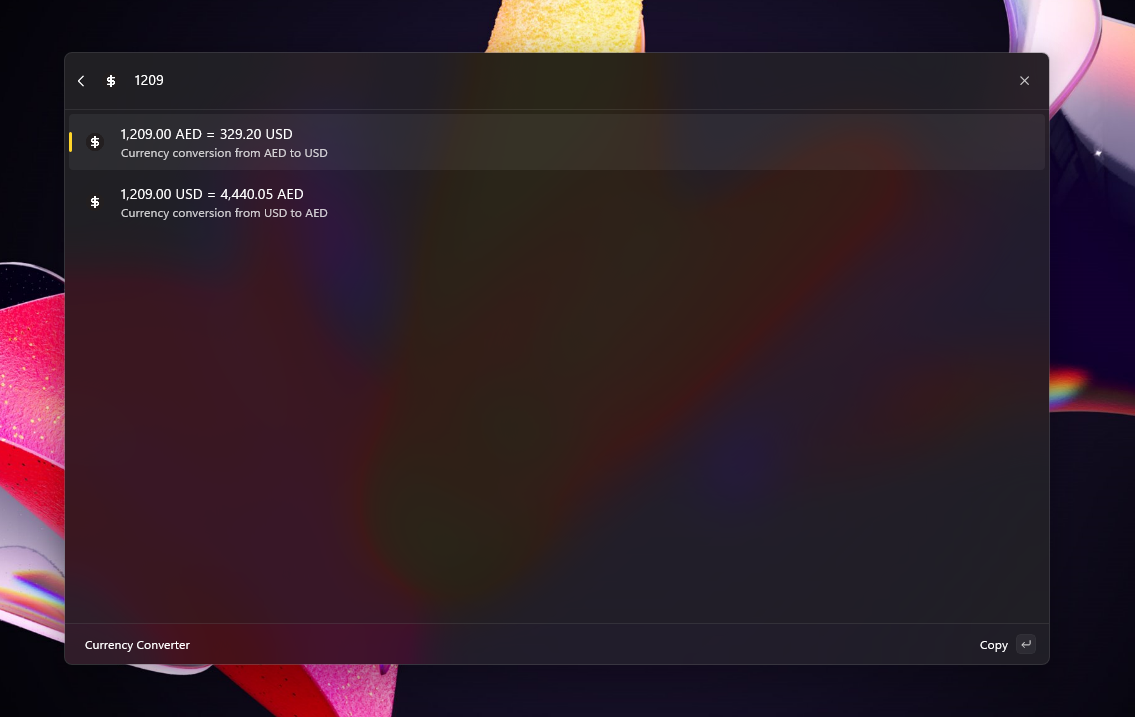
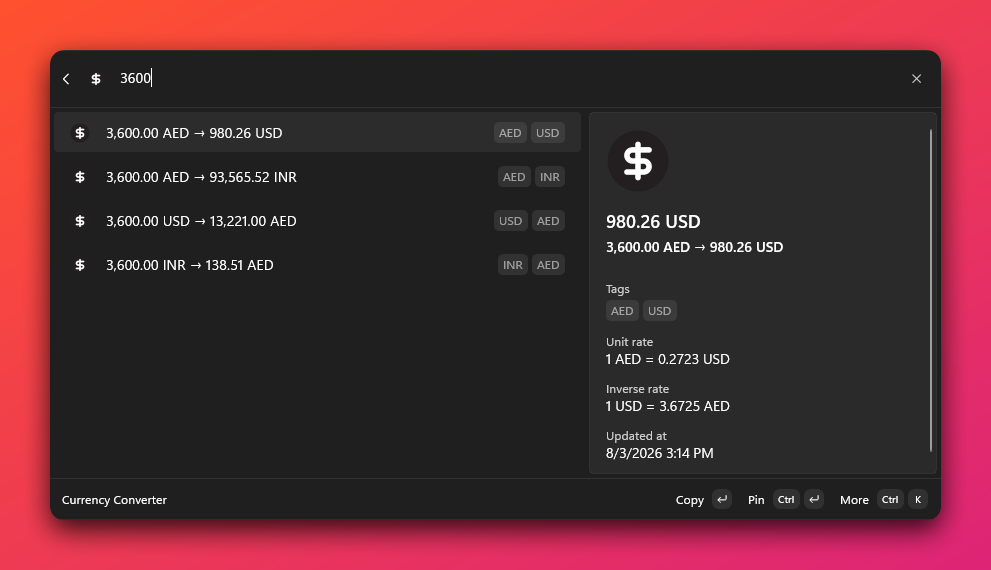
docs: Updated screenshots

diff --git a/README.md b/README.md
@@ -9,11 +9,7 @@ Convert fiat and crypto currencies without leaving [Command Palette](https://lea
 
 ![Home](screenshots/home.png)
 
-*Capture: main page with an empty search box — Today's rates, Manage aliases, and example query chips visible.*
-
 ![Settings](screenshots/settings.png)
-
-*Capture: full settings page (local currency, quick currencies, decimal separator, cache duration, API). Hide or clear any API key before shooting.*
 
 ## Why you'll love it
 
@@ -49,14 +45,12 @@ Download the MSIX package from the [Releases](https://github.com/advaith3600/Com
 
 ## Quick start
 
-1. Open Command Palette and run **Currency Converter** (or type a conversion query on the home list — see [Fallback](#fallback-from-home)).
+1. Open Command Palette and run **Currency Converter** (or type a conversion query on the home list).
 2. Type a query, for example `100 usd to eur`.
 3. Press **Enter** on a result to copy the converted amount to the clipboard.
 4. Open the details pane on a selected result to see the unit rate, inverse rate, and last update time.
 
 ![Conversion with details](screenshots/conversion.png)
-
-*Capture: a fiat conversion selected with the details pane expanded (rate, inverse rate, last updated).*
 
 ## Usage
 
@@ -88,8 +82,6 @@ Convert between fiat and cryptocurrencies in either direction. See the [full lis
 
 ![Crypto conversion](screenshots/conversion-crypto.png)
 
-*Capture: e.g. `1 btc to usd` with the details pane visible.*
-
 ### Quick conversions
 
 Type just a number to convert from your local currency into the other currencies configured in Settings. You can change both the local currency and the list of target currencies there.
@@ -101,8 +93,6 @@ $1209
 
 ![Quick conversion](screenshots/conversion-quick.png)
 
-*Capture: number-only quick conversion showing several target currencies.*
-
 ### Mathematical calculations
 
 Type a math expression and the extension evaluates it with BODMAS/PEMDAS before converting. Supported operators are `+`, `-`, `*`, and `/`, including brackets:
@@ -112,16 +102,6 @@ Type a math expression and the extension evaluates it with BODMAS/PEMDAS before 
 ```
 
 ![Math expression conversion](screenshots/conversion-math.png)
-
-*Capture: a math expression conversion result.*
-
-### Fallback from home
-
-You do not always need to open Currency Converter first. On the Command Palette home list, type a conversion query — when it matches, a **Convert with Currency Converter** fallback appears so you can jump straight into results.
-
-![Fallback](screenshots/fallback.png)
-
-*Capture: Command Palette home after typing a conversion query, with the Currency Converter fallback item visible.*
 
 ## Pins, Today's rates & dock
 
@@ -133,16 +113,14 @@ If your local currency matches every currency in the other-currencies list, a wa
 
 ![Today's rates](screenshots/todays-rates.png)
 
-*Capture: Today's rates with at least one row tagged Pinned.*
-
 ### Pinning conversions
 
 Keep the pairs you check often at the top of Today's rates and on the dock.
 
-| Where | Pin | Unpin | Enter |
-| --- | --- | --- | --- |
-| Main converter results | Context menu (`Ctrl + Enter`) | Context menu (`Ctrl + Enter`) | Copies the converted amount |
-| Today's rates (search for a pair) | **Enter** | Context menu (`Ctrl + Enter`) | Pins the conversion |
+| Where                             | Pin                           | Unpin                         | Enter                       |
+| --------------------------------- | ----------------------------- | ----------------------------- | --------------------------- |
+| Main converter results            | Context menu (`Ctrl + Enter`) | Context menu (`Ctrl + Enter`) | Copies the converted amount |
+| Today's rates (search for a pair) | **Enter**                     | Context menu (`Ctrl + Enter`) | Pins the conversion         |
 
 Example: on Today's rates, search `34 btc to aed` and press **Enter** to pin it. Pinned conversions appear at the top with live rates the next time you open the page.
 
@@ -155,8 +133,6 @@ Pinned conversions also show up in the Command Palette **Currency pins** dock ba
 - Dock rates refresh automatically on a new local calendar day, and whenever you change your pins
 
 ![Dock pins](screenshots/dock-pins.png)
-
-*Capture: Command Palette dock with the Currency pins band showing 2–3 pinned pairs and live amounts.*
 
 ## Aliases
 
@@ -171,24 +147,20 @@ Remove an alias by selecting it and pressing `Ctrl + Enter`, then confirming the
 
 ![Manage aliases](screenshots/aliases.png)
 
-*Capture: alias list page.*
-
 ![Create alias](screenshots/aliases-create.png)
-
-*Capture: create-alias form.*
 
 ## Settings
 
 Open Settings from the Currency Converter command (context menu → Settings), or from the warning on Today's rates when your currency list needs attention.
 
-| Setting | What it does |
-| --- | --- |
+| Setting                             | What it does                                                      |
+| ----------------------------------- | ----------------------------------------------------------------- |
 | **Quick Conversion Local Currency** | Base currency for number-only quick conversions and Today's rates |
-| **Quick Conversion Currencies** | Comma-separated targets (e.g. `USD, EUR, BTC`) |
-| **Decimal format separator** | System default, always dots, or always commas |
-| **Conversion Cache duration** | How long rates stay cached, in hours (min `0.5`, max `24`) |
-| **Conversion API** | Rate provider (see below) |
-| **Conversion API Key** | Required only for ExchangeRateAPI or CurrencyAPI |
+| **Quick Conversion Currencies**     | Comma-separated targets (e.g. `USD, EUR, BTC`)                    |
+| **Decimal format separator**        | System default, always dots, or always commas                     |
+| **Conversion Cache duration**       | How long rates stay cached, in hours (min `0.5`, max `24`)        |
+| **Conversion API**                  | Rate provider (see below)                                         |
+| **Conversion API Key**              | Required only for ExchangeRateAPI or CurrencyAPI                  |
 
 ## Conversion API
 
@@ -215,16 +187,4 @@ None of these APIs are affiliated with this extension. To use a different rate p
 
 ## Privacy
 
-This extension does not collect or transmit personal data. See the [Privacy Policy](PRIVACY_POLICY.md) for details.
-
-## Screenshot guide
-
-When replacing the placeholder images above, use these tips for a consistent set:
-
-1. Use **Win + Shift + S** or Snipping Tool; crop to the Command Palette window when possible.
-2. Capture at about **100–125%** display scale so text stays sharp on GitHub.
-3. Stick to one CmdPal theme (light or dark) across every shot.
-4. For **details** shots, select a result so the details pane is expanded before capturing.
-5. For the **dock** shot, pin 2–3 conversions first, then capture the Currency pins band with readable titles and subtitles.
-6. For **settings**, clear or obscure any API key.
-7. Prefer PNG; keep filenames exactly as referenced in this README (`screenshots/home.png`, `screenshots/dock-pins.png`, etc.).
+This extension has no analytics or telemetry. Settings, aliases, and pins stay on your device; exchange rates are fetched from the third-party API you select. See the [Privacy Policy](PRIVACY_POLICY.md) for details.

diff --git a/PRIVACY_POLICY.md b/PRIVACY_POLICY.md
@@ -1,7 +1,59 @@
-# PRIVACY POLICY
+# Privacy Policy
 
-These extensions respect your privacy and do not collect or transmit any personal data.  
-Please note that while these extensions store a log locally on your device, this log is not automatically transmitted or shared.  
-However, the log may be requested to help investigate any reported issues, and it will be provided by the user if they are willing to share it.
+**Currency Converter for Command Palette** (“this extension”) respects your privacy. This policy describes what data is handled on your device and what is sent over the network when you use the extension.
 
-**Last updated: 2025-04-10**
+**Last updated: 2026-08-03**  
+**Publisher:** Advaith A J
+
+## Summary
+
+This extension does **not** collect, sell, or upload personal information to the publisher. There is no account system, analytics, advertising, or telemetry built into the extension.
+
+## Data stored on your device
+
+The following may be stored locally so the extension can work:
+
+| Data | Purpose |
+| --- | --- |
+| Settings (local currency, quick currencies, decimal separator, cache duration, selected API, optional API key) | Remember your preferences |
+| Custom currency aliases | Your alias list |
+| Pinned conversions | Pins and dock items you save |
+| In-memory exchange-rate cache | Reduce repeat network requests during a session |
+
+Settings are saved under Command Palette’s settings location. Aliases and pins are saved in the extension’s app data folder. Windows may sync roaming app data with your Microsoft account if that feature is enabled on your device; the extension itself does not upload this data.
+
+You can clear or change this data by editing settings, removing pins/aliases, or uninstalling the extension.
+
+## Network requests
+
+To fetch exchange rates, the extension contacts the rate provider you select in Settings:
+
+1. **Default** — [fawazahmed0/currency-api](https://github.com/fawazahmed0/exchange-api) via jsDelivr CDN and a Cloudflare Pages fallback  
+2. **ExchangeRate-API** — [exchangerate-api.com](https://www.exchangerate-api.com/)  
+3. **CurrencyAPI** — [currencyapi.com](https://currencyapi.com/)
+
+These requests typically include currency codes (for example, a base currency) and, for non-default providers, the API key you enter in Settings. Like any HTTPS request, the provider also receives standard connection metadata such as your IP address.
+
+None of these providers are affiliated with this extension. Their own privacy policies apply to data they receive:
+
+- [ExchangeRate-API privacy](https://www.exchangerate-api.com/terms)  
+- [CurrencyAPI privacy](https://currencyapi.com/privacy-policy/)  
+- Default API / CDN hosts: see the [fawazahmed0/exchange-api](https://github.com/fawazahmed0/exchange-api) project and the jsDelivr / Cloudflare policies for their respective services
+
+The extension does not send your search queries, pins, aliases, or settings to the publisher.
+
+## Clipboard
+
+When you choose a conversion result, the converted amount may be copied to the system clipboard so you can paste it elsewhere. Clipboard contents stay on your device unless you paste them into another app.
+
+## Host platforms
+
+This extension runs inside Windows Command Palette / PowerToys. The Microsoft Store, Winget, Windows, and Microsoft account services have separate privacy policies that apply when you install or use those platforms.
+
+## Contact
+
+Questions about this policy: open an issue on the [GitHub repository](https://github.com/Advaith3600/Command-Palette-Currency-Converter).
+
+## Changes
+
+If this policy is updated, the “Last updated” date above will change. Continued use of the extension after an update means you accept the revised policy.

diff --git a/screenshots/README.md b/screenshots/README.md
@@ -1,0 +1,33 @@
+# Screenshots
+
+How these images were captured, for regenerating them later.
+
+## Tool
+
+[ShareX](https://getsharex.com/)
+
+## Capture setup
+
+1. Set the Command Palette (or desktop behind it) background to solid black (`#000`).
+2. Capture with ShareX using **Ctrl + Print Screen**.
+3. Right-click the captured image and choose **Beautify image**.
+4. Apply the effect settings below.
+
+## ShareX effect settings
+
+| Setting | Value |
+| --- | --- |
+| Margin | `50px` |
+| Padding | `0px` |
+| Rounded corner | `14px` |
+| Background | Gradient `#FF512F` → `#DD2476` |
+
+### Shadow
+
+| Setting | Value |
+| --- | --- |
+| Radius | `30px` |
+| Opacity | `80%` |
+| Distance | `10px` |
+| Angle | `180deg` |
+| Color | Black |
